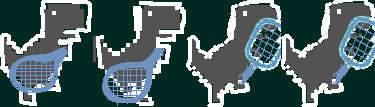
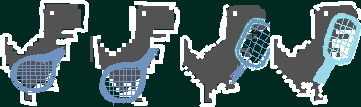
feat:add dino racket movement

diff --git a/script.js b/script.js
@@ -59,9 +59,19 @@ class LeftDino {
         if(this.y > this.game.height - this.height) this.y = this.game.height - this.height
 
     }
+    hit(){
+        this.dinoFrame = 3
+
+    }
+    racketDown(){
+        this.dinoFrame = 0
+        console.log
+    }
     handleMove() {
-          this.dinoFrame = (this.dinoFrame + 1) % this.dinoFrameCount
-          
+        if(this.dinoFrame !=3 ){
+            this.dinoFrame = (this.dinoFrame + 1) % this.dinoFrameCount
+        }
+
     }
     draw(context){
         context.fillStyle = "white";
@@ -101,6 +111,7 @@ class Ball {
         this.height = ballSize
         this.x = this.game.width/2
         this.y = this.game.height/2
+        this.hitBall = false
       
         this.drctn = { x: 0 }
         while (
@@ -137,10 +148,18 @@ class Ball {
             lostSound.play()
             this.reset()
         }
+        if ( (this.x - 10*ballSize >= this.game.leftDino.width&&this.hitBall)) {
+           this.game.leftDino.racketDown()
+           this.hitBall = false
+        }
 
         if (collides(this, this.game.leftDino)) {
+            this.game.leftDino.hit()
+            this.hitBall = true
             this.drctn.x *= -1;
+
             this.x = this.game.leftDino.x + this.game.leftDino.width;
+
             hitSound.play()
 
         }else if (collides(this, this.game.rightDino)) {
